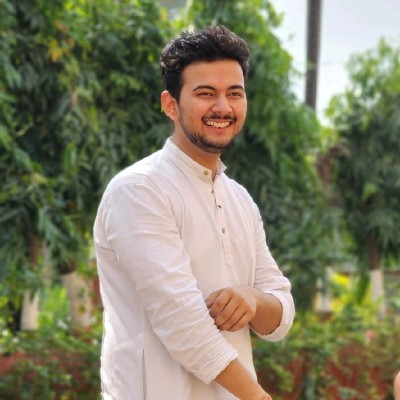
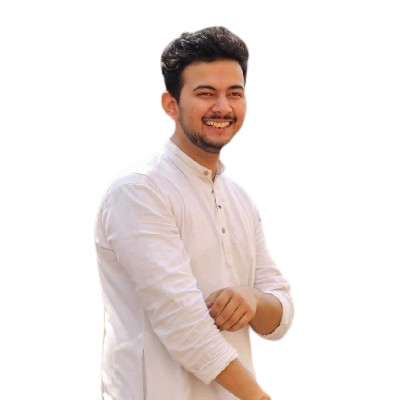
fix: project overlap, add typewriter, new profile image

diff --git a/src/components/Projects.tsx b/src/components/Projects.tsx
@@ -151,14 +151,14 @@ function ProjectCard({ project, isHovered, onHover, onLeave }: any) {
 
         {/* Content & Image */}
         <div className="lg:w-3/4 w-full relative">
-          <div className="relative z-10">
-            <h3 className="text-3xl md:text-5xl lg:text-6xl font-display font-bold tracking-tighter leading-[1.1] mb-4 group-hover:translate-x-4 transition-transform duration-500">
+          <div className="relative z-10 md:max-w-[50%]">
+            <h3 className="text-3xl md:text-4xl lg:text-5xl font-display font-bold tracking-tighter leading-[1.1] mb-4 group-hover:translate-x-4 transition-transform duration-500">
               {project.title}
             </h3>
             <h4 className="text-xl md:text-2xl font-light text-brand-gray-dark mb-6 group-hover:translate-x-4 transition-transform duration-500 delay-75">
               {project.subtitle}
             </h4>
-            <p className="text-base md:text-lg text-brand-charcoal max-w-2xl font-light leading-relaxed opacity-0 group-hover:opacity-100 group-hover:translate-x-4 transition-all duration-500 delay-100 max-h-0 group-hover:max-h-40 overflow-hidden">
+            <p className="text-base md:text-lg text-brand-charcoal font-light leading-relaxed opacity-0 group-hover:opacity-100 group-hover:translate-x-4 transition-all duration-500 delay-100 max-h-0 group-hover:max-h-40 overflow-hidden pr-4">
               {project.description}
             </p>
           </div>

diff --git a/src/components/Hero.tsx b/src/components/Hero.tsx
@@ -1,6 +1,7 @@
 "use client";
 
 import { motion, Variants } from "framer-motion";
+import Typewriter from "./Typewriter";
 
 export default function Hero() {
   const containerVariants: Variants = {
@@ -45,13 +46,18 @@ export default function Hero() {
             DATA
           </motion.h1>
 
-          <motion.div variants={itemVariants} className="mt-8 md:mt-12 max-w-sm ml-1 md:ml-4 border-l-4 border-foreground pl-4 md:pl-6">
+          <motion.div variants={itemVariants} className="mt-8 md:mt-12 max-w-sm ml-1 md:ml-4 border-l-4 border-foreground pl-4 md:pl-6 min-h-[120px]">
             <p className="text-lg md:text-2xl font-medium leading-tight text-foreground">
-              A Data Scientist & Cloud Architect based in Mumbai.
+              <Typewriter text="A Data Scientist & Cloud Architect based in Mumbai." delay={1.5} />
             </p>
-            <p className="mt-2 md:mt-4 text-sm md:text-base opacity-80 text-foreground">
+            <motion.p 
+              initial={{ opacity: 0 }}
+              animate={{ opacity: 0.8 }}
+              transition={{ delay: 4, duration: 1 }}
+              className="mt-2 md:mt-4 text-sm md:text-base text-foreground"
+            >
               Specializing in contemporary AI systems, I bring complex data to life with purposeful, scalable solutions.
-            </p>
+            </motion.p>
           </motion.div>
         </motion.div>
 

diff --git a/src/components/Typewriter.tsx b/src/components/Typewriter.tsx
@@ -1,0 +1,48 @@
+"use client";
+
+import { motion } from "framer-motion";
+import { useEffect, useState } from "react";
+
+interface TypewriterProps {
+  text: string;
+  className?: string;
+  delay?: number;
+}
+
+export default function Typewriter({ text, className = "", delay = 0 }: TypewriterProps) {
+  const [displayedText, setDisplayedText] = useState("");
+
+  useEffect(() => {
+    let i = 0;
+    const typingInterval = setInterval(() => {
+      if (i < text.length) {
+        setDisplayedText(text.slice(0, i + 1));
+        i++;
+      } else {
+        clearInterval(typingInterval);
+      }
+    }, 50); // Speed of typing
+
+    // Wait for the delay before starting
+    const timeout = setTimeout(() => {
+      setDisplayedText(""); // Reset before typing starts (if re-triggered)
+      i = 0;
+    }, delay * 1000);
+
+    return () => {
+      clearInterval(typingInterval);
+      clearTimeout(timeout);
+    };
+  }, [text, delay]);
+
+  return (
+    <span className={className}>
+      {displayedText}
+      <motion.span
+        animate={{ opacity: [0, 1, 0] }}
+        transition={{ repeat: Infinity, duration: 0.8 }}
+        className="inline-block ml-[2px] w-[2px] h-[1em] bg-current align-middle"
+      />
+    </span>
+  );
+}
